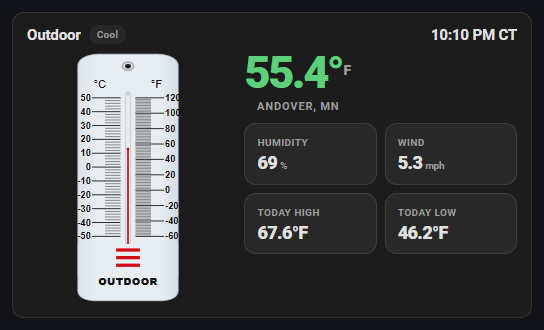
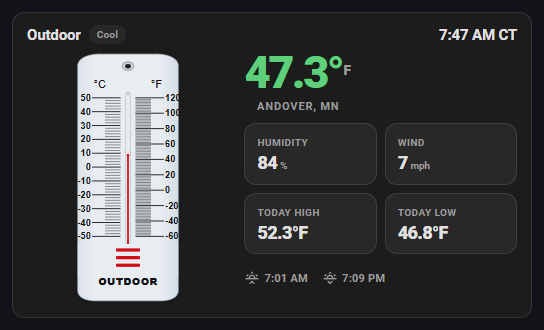
Add files via upload

diff --git a/README.md b/README.md
@@ -34,7 +34,7 @@ Put **home + extra ZIP cities** on **Always show**. They flip while nothing else
 
 ![Home, Kona, and Jacksonville rotating](media/rotate-cities.gif)
 
-Home → Kona → Jacksonville. Each city shows its own clock (CT / HT / ET) and real today high / low. Swipe or tap the dots to skip ahead.
+Home → Kona → Jacksonville. Each city shows its own clock (CT / HT / ET), real today high / low, and sunrise / sunset. Swipe or tap the dots to skip ahead.
 
 | Home | Kona | Jacksonville |
 | :---: | :---: | :---: |
